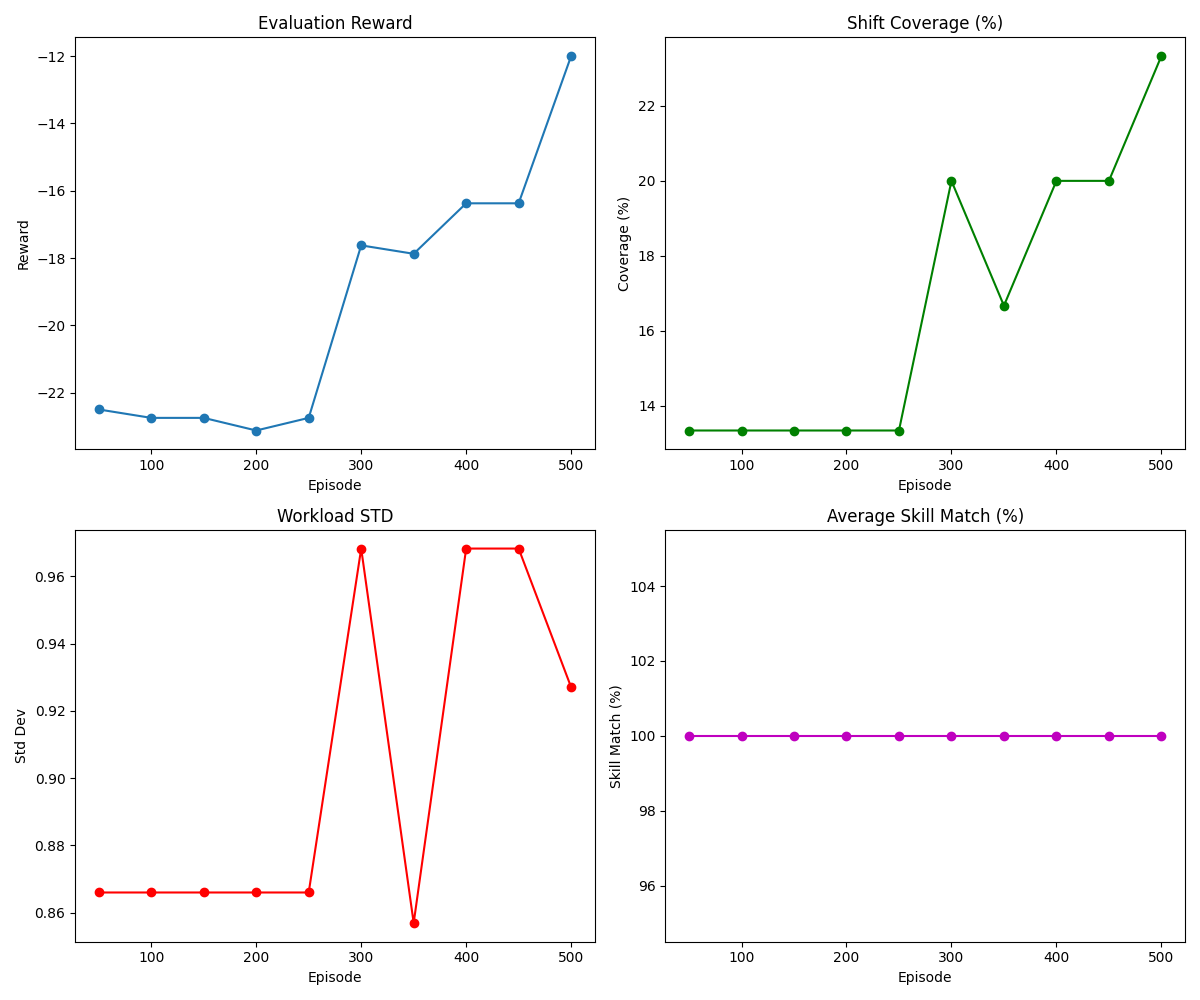
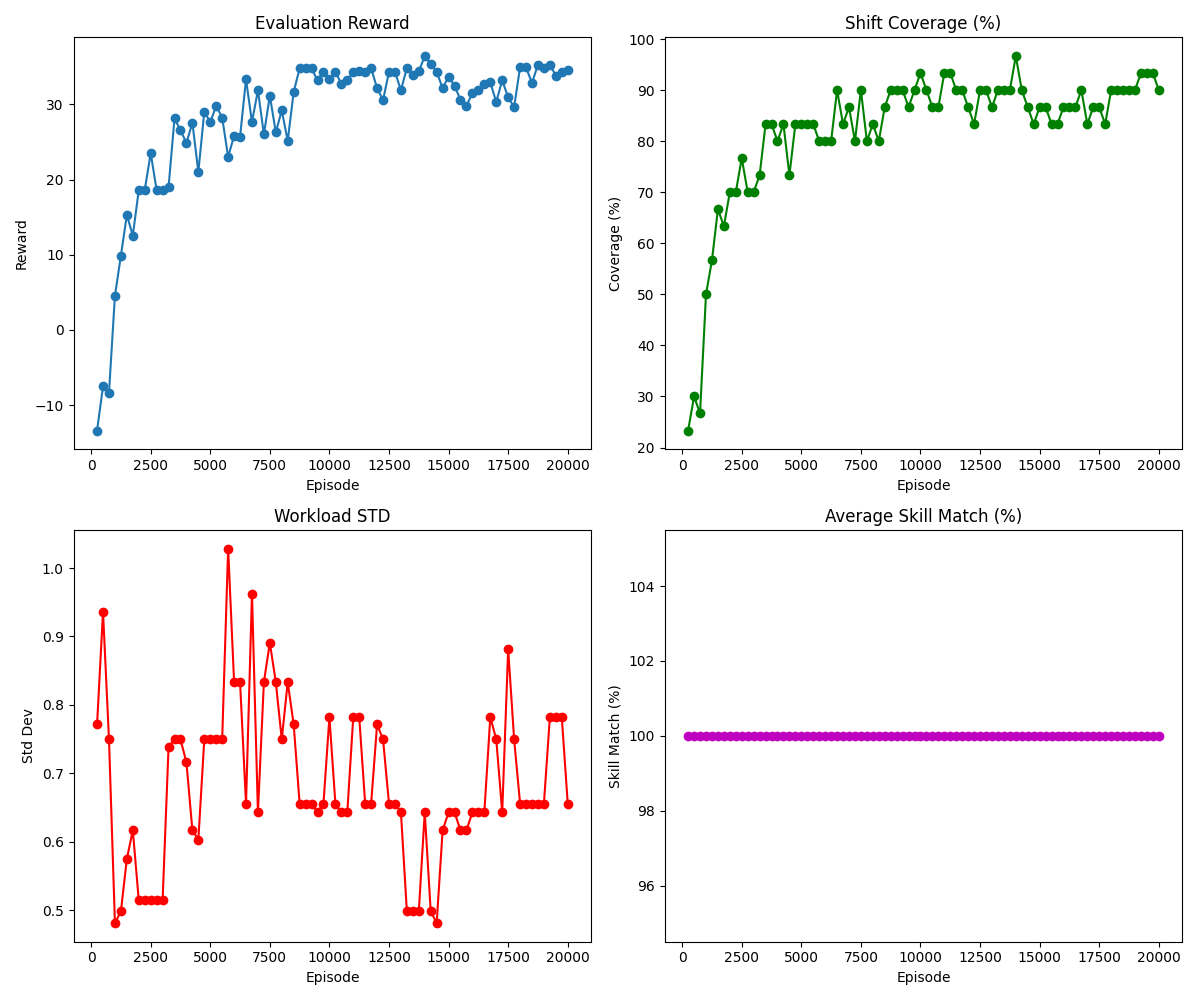
Added auto-end on enter to stop training

diff --git a/recommendation_engine/main.py b/recommendation_engine/main.py
@@ -285,11 +285,20 @@ def train_agent(env, episodes=500, eval_interval=50):
     """Train the policy network."""
     metrics = track_training_progress(episodes, eval_interval)
     
+    import sys
+    import select
+    
     for ep in range(episodes):
         trajectory = env.run_episode()
         ep_reward = env.update_policy(trajectory)
         metrics['total_rewards'].append(ep_reward)
         
+        # Check if user pressed Enter to stop training
+        if sys.stdin in select.select([sys.stdin], [], [], 0)[0]:
+            input()  # Clear the input buffer
+            print(f"Training stopped early at episode {ep+1}")
+            break
+            
         if (ep+1) % eval_interval == 0:
             evaluate_and_log_progress(env, ep, episodes, eval_interval, metrics)
     
@@ -325,7 +334,9 @@ def plot_training_rewards(total_rewards, episodes, eval_interval):
     """Plot and save training rewards chart."""
     plt.figure(figsize=(8,6))
     avg_rewards = calculate_average_rewards(total_rewards, eval_interval)
-    episodes_axis = np.arange(eval_interval, episodes+1, eval_interval)
+    # Ensure x and y arrays have matching lengths
+    num_points = len(avg_rewards)
+    episodes_axis = np.arange(eval_interval, eval_interval * (num_points + 1), eval_interval)[:num_points]
     plt.plot(episodes_axis, avg_rewards, label="Avg Reward per 50 Episodes", marker="o")
     plt.xlabel("Episode")
     plt.ylabel("Average Reward")
@@ -345,7 +356,10 @@ def calculate_average_rewards(total_rewards, eval_interval):
 def plot_evaluation_metrics(metrics, episodes, eval_interval):
     """Plot and save evaluation metrics charts."""
     fig, axs = plt.subplots(2,2, figsize=(12,10))
-    episodes_axis = np.arange(eval_interval, episodes+1, eval_interval)
+    
+    # Get actual number of evaluation points
+    num_points = len(metrics['eval_rewards'])
+    episodes_axis = np.arange(eval_interval, eval_interval * (num_points + 1), eval_interval)[:num_points]
     
     axs[0,0].plot(episodes_axis, metrics['eval_rewards'], marker="o")
     axs[0,0].set_title("Evaluation Reward")
@@ -540,12 +554,12 @@ if __name__ == "__main__":
     results = []
     
     # Test with varying number of employees
-    for n_emp in range(8, 9):
-        result = run_simulation(n_employees=n_emp, n_shifts=30, episodes=20000, eval_interval=500)
+    for n_emp in range(11,12):
+        result = run_simulation(n_employees=n_emp, n_shifts=30, episodes=20000, eval_interval=250)
         results.append(result)
     
     # Test with varying number of shifts
-    #for n_shifts in [10, 15, 20, 25, 30]:
+    # for n_shifts in [10, 15, 20, 25, 30]:
     #    result = run_simulation(n_employees=8, n_shifts=n_shifts)
     #    results.append(result)
     
@@ -555,6 +569,6 @@ if __name__ == "__main__":
     for r in results[:6]:
         print(f"Employees: {r['n_employees']}, Final Coverage: {r['final_coverage']*100:.1f}%, Workload STD: {r['workload_std']:.2f}")
     
-    print("\nShift Scaling:")
-    for r in results[6:]:
-        print(f"Shifts: {r['n_shifts']}, Final Coverage: {r['final_coverage']*100:.1f}%, Workload STD: {r['workload_std']:.2f}")
+    # print("\nShift Scaling:")
+    # for r in results[6:]:
+    #    print(f"Shifts: {r['n_shifts']}, Final Coverage: {r['final_coverage']*100:.1f}%, Workload STD: {r['workload_std']:.2f}")
